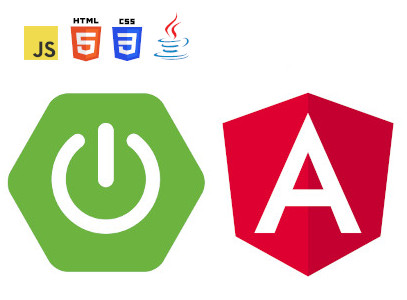
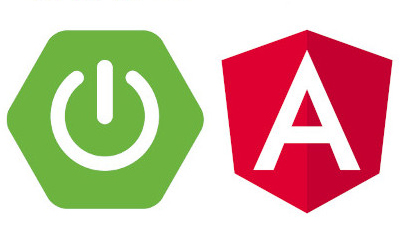
feat: add cedears tracker project
- Also update project thumbnails.

diff --git a/_site/projects/1-cedears-tracker.html b/_site/projects/1-cedears-tracker.html
@@ -1,0 +1,194 @@
+<!DOCTYPE html>
+
+<!--
+  portfolYOU Jekyll theme by Youssef Raafat
+  Free for personal and commercial use under the MIT license
+  https://github.com/YoussefRaafatNasry/portfolYOU
+-->
+
+<html lang="en" class="h-100">
+
+<head>
+
+  
+  
+  
+
+  
+
+  <meta charset="utf-8">
+  <meta http-equiv="X-UA-Compatible" content="IE=edge">
+  <meta name="viewport" content="width=device-width, initial-scale=1">
+
+  <meta property="og:type" content="website">
+  <meta property="og:title" content="CEDEARs Tracker">
+  <meta property="og:description" content="A microservices-based system for tracking financial assets.">
+  <meta property="og:image" content="../assets/img/projects/cedears_tracker/portada.jpg">
+
+  <title>CEDEARs Tracker</title>
+  <meta name="description" content="A microservices-based system for tracking financial assets.">
+
+  <link rel="shortcut icon" type="image/x-icon" href="/assets/favicon.ico">
+
+  <!-- Theme style -->
+  <script src="/assets/js/theme.js"></script>
+
+  <!-- Font Awesome CDN -->
+  <link rel="stylesheet" href="https://use.fontawesome.com/releases/v5.10.0/css/all.css">
+
+  <!-- Bootstrap CSS CDN -->
+  <link rel="stylesheet" href="https://cdn.jsdelivr.net/npm/bootstrap@4.6.0/dist/css/bootstrap.min.css">
+
+  <!-- Animate CSS CDN -->
+  <link rel="stylesheet" href="https://cdnjs.cloudflare.com/ajax/libs/animate.css/3.7.0/animate.css">
+
+  <!-- Custom CSS -->
+  <link rel="stylesheet" href="/assets/css/style.css">
+
+</head>
+
+<body class="h-100 d-flex flex-column">
+
+  <main class="flex-shrink-0 container mt-5">
+    <nav class="navbar navbar-expand-lg navbar-themed">
+
+  <div class="d-flex align-items-center"> <!-- Agregar un contenedor flexible -->
+    <a class="navbar-brand" href="/">
+      <h5><b>Pablo Musaber</b></h5>
+    </a>
+
+    <span id="theme-toggler" class="nav-item" role="button" onclick="toggleTheme()"></span>
+  </div>
+
+  <button class="navbar-toggler" type="button" data-toggle="collapse" data-target="#navbarNavAltMarkup"
+    aria-controls="navbarNavAltMarkup" aria-expanded="false" aria-label="Toggle navigation">
+    <i class="fas fa-1x fa-bars text-themed"></i>
+  </button>
+
+  <div class="collapse navbar-collapse" id="navbarNavAltMarkup">
+    <div class="navbar-nav ml-auto"><a class="nav-item nav-link active" href="/projects/">Projects</a>
+
+      <a class="nav-item nav-link " href="/blog/">Blog</a>
+
+      <a class="nav-item nav-link " href="/about/">About</a>
+
+      <a class="nav-item nav-link " href="https://github.com/PabloMusaber"target="_blank"><i class="fab fa-1x fa-github"></i></a>
+
+      <a class="nav-item nav-link " href="https://www.linkedin.com/in/pablo-musaber/"target="_blank"><i class="fab fa-linkedin-in"></i></a>
+
+      <a class="nav-item nav-link " href="mailto:musaberpablo@gmail.com"target="_blank"><i class="fas fa-envelope"></i></a>
+
+      
+
+    </div>
+  </div>
+
+</nav>
+    <div class="col-lg-10 mx-auto mt-5 markdown-body">
+  <h1>
+    <b>CEDEARs Tracker </b><a href="https://github.com/PabloMusaber/cedears-tracker" style="color: #6c757d"
+    onMouseOver="this.style.color='#333333'" onMouseOut="this.style.color='#6c757d'"
+    target="githubWindow"><i class="fab fa-github"></i></a></h1><p class="post-metadata text-muted">
+  20 December 2024 -
+  <b>less than 1 min read time</b>
+
+  <br>Tags:
+    
+    <a class="text-decoration-none no-underline">
+      <span class="tag badge badge-pill text-primary border border-primary">.NET</span>
+    </a>
+    
+    <a class="text-decoration-none no-underline">
+      <span class="tag badge badge-pill text-primary border border-primary">C#</span>
+    </a>
+    
+    <a class="text-decoration-none no-underline">
+      <span class="tag badge badge-pill text-primary border border-primary">Microservices Architecture</span>
+    </a>
+    
+    <a class="text-decoration-none no-underline">
+      <span class="tag badge badge-pill text-primary border border-primary">RabbitMQ</span>
+    </a>
+    </p>
+
+<p>This project was developed to practice microservices architecture and the migration process from a monolithic system to a microservices-based approach. This system consists of 4 microservices with specific responsibilities and independent databases.</p>
+
+<h5 id="1-instrument-service">1. Instrument Service</h5>
+<ul>
+  <li>Allows the creation of instruments that represent the different financial assets you want to track.</li>
+  <li>Has a database that saves instruments.</li>
+  <li>When an instrument is created, it sends this information to <em>MovementService</em> through the RabbitMQ Message Bus.</li>
+</ul>
+
+<h5 id="2-movement-service">2. Movement Service</h5>
+<ul>
+  <li>Allows the creation of movements (buy/sell) for each instrument.</li>
+  <li>Has a database that saves movements and instruments.</li>
+  <li>At the start, it retrieves all the available instruments in <em>Instrument Service</em>.</li>
+  <li>When a movement is registered, it calculates the average purchase price and sends it to <em>MarketService</em> through the RabbitMQ Message Bus.</li>
+</ul>
+
+<h5 id="3-market-service">3. Market Service</h5>
+<ul>
+  <li>Communicates with the <strong><a href="https://itatppi.github.io/ppi-official-api-docs/api/documentacionRest/">PPI API</a></strong> to get the current price for each instrument.</li>
+  <li>Has a database with the required information to generate the spreadsheet.</li>
+  <li>At the start, it retrieves all the available information in <em>Movement Service</em>.</li>
+  <li>When a movement is registered, receive the updated information for the specific instrument.</li>
+  <li>Sends the necessary information to generate the spreadsheet through the RabbitMQ Message Bus.</li>
+</ul>
+
+<h5 id="4-spreadsheet-service">4. Spreadsheet Service</h5>
+<ul>
+  <li>Sends the request to get the necessary information to generate the spreadsheet through <em>RabbitMQ</em>.</li>
+  <li>Generates the spreadsheet and sends it via <em>Telegram</em>.</li>
+  <li>Does not have any database.</li>
+</ul>
+
+<p><strong>Note:</strong> The project is called CEDEARS Tracker, but it can track any financial assets available through the PPI API.</p>
+
+<p>The <strong>solution architecture</strong> is here:
+<img src="../assets/img/projects/cedears_tracker/solution_diagram.jpeg" alt="diagram" /></p>
+
+<script src="https://cdn.jsdelivr.net/gh/eddymens/markdown-external-link-script@v2.0.0/main.min.js"></script>
+
+
+
+
+</div>
+  </main>
+  <footer class="mt-auto py-3 text-center">
+
+  <small class="text-muted mb-2">
+    Using the <a href="https://jekyllrb.com/" target=”jekyll”>Jekyll</a> theme <a
+      href="https://github.com/YoussefRaafatNasry/portfolYOU" target=”portfolYOU”>portfolYOU</a>&nbsp; - &nbsp;
+    <i class="fas fa-code"></i> <strong>Pablo Musaber</strong>
+  </small>
+
+</footer>
+
+  
+  <!-- GitHub Buttons -->
+<script async defer src="https://buttons.github.io/buttons.js"></script>
+
+<!-- jQuery CDN -->
+<script src="https://ajax.googleapis.com/ajax/libs/jquery/3.3.1/jquery.min.js"></script>
+
+<!-- Popper.js CDN -->
+<script src="https://cdnjs.cloudflare.com/ajax/libs/popper.js/1.14.6/umd/popper.min.js"></script>
+
+<!-- Bootstrap JS CDN -->
+<script src="https://stackpath.bootstrapcdn.com/bootstrap/4.3.1/js/bootstrap.min.js"></script>
+
+<!-- wow.js CDN & Activation -->
+<script src="https://cdnjs.cloudflare.com/ajax/libs/wow/1.1.2/wow.js"></script>
+<script> new WOW().init(); </script>
+
+<!-- Initialize all tooltips -->
+<script>
+$(function () {
+    $('[data-toggle="tooltip"]').tooltip()
+})
+</script>
+</body>
+
+</html>

diff --git a/_site/projects/index.html b/_site/projects/index.html
@@ -93,7 +93,21 @@
   <!-- Local Projects -->
   
   <div class="wow animated fadeIn" data-wow-delay=".15s">
-  <a href="/projects/1-blog-rails" class="project card text-themed"><img id="ruby-on-rails-blog-img" class="card-img-top" src="../assets/img/projects/blog_rails/portada2.jpg" alt="Ruby on Rails Blog"><div class="card-body">
+  <a href="/projects/1-cedears-tracker" class="project card text-themed"><img id="cedears-tracker-img" class="card-img-top" src="../assets/img/projects/cedears_tracker/portada.jpg" alt="CEDEARs Tracker"><div class="card-body">
+      <h5 id="cedears-tracker-name" class="card-title">
+<strong>CEDEARs Tracker</strong>
+      </h5>
+      <p id="cedears-tracker-desc" class="card-text">A microservices-based system for tracking financial assets.</p>
+      <p id="cedears-tracker-tools" class="card-text"><span class="badge badge-pill text-primary border border-primary ml-1">.NET</span><span class="badge badge-pill text-primary border border-primary ml-1">C#</span><span class="badge badge-pill text-primary border border-primary ml-1">Microservices Architecture</span><span class="badge badge-pill text-primary border border-primary ml-1">RabbitMQ</span></p>
+    </div>
+    <div class="card-footer">
+      20 December 2024
+    </div>
+  </a>
+</div>
+
+  <div class="wow animated fadeIn" data-wow-delay=".15s">
+  <a href="/projects/2-blog-rails" class="project card text-themed"><img id="ruby-on-rails-blog-img" class="card-img-top" src="../assets/img/projects/blog_rails/portada.jpg" alt="Ruby on Rails Blog"><div class="card-body">
       <h5 id="ruby-on-rails-blog-name" class="card-title">
 <strong>Ruby on Rails Blog</strong>
       </h5>
@@ -102,20 +116,6 @@
     </div>
     <div class="card-footer">
       13 August 2023
-    </div>
-  </a>
-</div>
-
-  <div class="wow animated fadeIn" data-wow-delay=".15s">
-  <a href="/projects/2-portfolio-web" class="project card text-themed"><img id="web-portfolio-img" class="card-img-top" src="../assets/img/projects/portfolio_web/portada.jpg" alt="Web Portfolio"><div class="card-body">
-      <h5 id="web-portfolio-name" class="card-title">
-<strong>Web Portfolio</strong>
-      </h5>
-      <p id="web-portfolio-desc" class="card-text">Personal website built as part of the Argentina Programa course.</p>
-      <p id="web-portfolio-tools" class="card-text"><span class="badge badge-pill text-primary border border-primary ml-1">Java</span><span class="badge badge-pill text-primary border border-primary ml-1">Spring Boot</span><span class="badge badge-pill text-primary border border-primary ml-1">Angular</span></p>
-    </div>
-    <div class="card-footer">
-      25 July 2022
     </div>
   </a>
 </div>
@@ -144,6 +144,20 @@
     </div>
     <div class="card-footer">
       15 July 2021
+    </div>
+  </a>
+</div>
+
+  <div class="wow animated fadeIn" data-wow-delay=".15s">
+  <a href="/projects/5-portfolio-web" class="project card text-themed"><img id="web-portfolio-img" class="card-img-top" src="../assets/img/projects/portfolio_web/portada.jpg" alt="Web Portfolio"><div class="card-body">
+      <h5 id="web-portfolio-name" class="card-title">
+<strong>Web Portfolio</strong>
+      </h5>
+      <p id="web-portfolio-desc" class="card-text">Personal website built as part of the Argentina Programa course.</p>
+      <p id="web-portfolio-tools" class="card-text"><span class="badge badge-pill text-primary border border-primary ml-1">Java</span><span class="badge badge-pill text-primary border border-primary ml-1">Spring Boot</span><span class="badge badge-pill text-primary border border-primary ml-1">Angular</span></p>
+    </div>
+    <div class="card-footer">
+      25 July 2022
     </div>
   </a>
 </div>

diff --git a/_site/projects/2-blog-rails.html b/_site/projects/2-blog-rails.html
@@ -23,7 +23,7 @@
   <meta property="og:type" content="website">
   <meta property="og:title" content="Ruby on Rails Blog">
   <meta property="og:description" content="A web platform developed with the objective of learning the technology, allowing users to register, comment, and publish articles.">
-  <meta property="og:image" content="../assets/img/projects/blog_rails/portada2.jpg">
+  <meta property="og:image" content="../assets/img/projects/blog_rails/portada.jpg">
 
   <title>Ruby on Rails Blog</title>
   <meta name="description" content="A web platform developed with the objective of learning the technology, allowing users to register, comment, and publish articles.">

diff --git a/_projects/(1) Cedears Tracker.md b/_projects/(1) Cedears Tracker.md
@@ -1,0 +1,40 @@
+---
+name: CEDEARs Tracker
+tools: [.NET, C#, Microservices Architecture, RabbitMQ]
+image: ../assets/img/projects/cedears_tracker/portada.jpg
+date: 2024-12-20
+description: A microservices-based system for tracking financial assets.
+github_repository: https://github.com/PabloMusaber/cedears-tracker
+---
+This project was developed to practice microservices architecture and the migration process from a monolithic system to a microservices-based approach. This system consists of 4 microservices with specific responsibilities and independent databases.
+
+##### 1. Instrument Service
+- Allows the creation of instruments that represent the different financial assets you want to track.
+- Has a database that saves instruments.
+- When an instrument is created, it sends this information to _MovementService_ through the RabbitMQ Message Bus.
+
+##### 2. Movement Service
+- Allows the creation of movements (buy/sell) for each instrument.
+- Has a database that saves movements and instruments.
+- At the start, it retrieves all the available instruments in *Instrument Service*.
+- When a movement is registered, it calculates the average purchase price and sends it to _MarketService_ through the RabbitMQ Message Bus.
+
+##### 3. Market Service
+- Communicates with the **[PPI API](https://itatppi.github.io/ppi-official-api-docs/api/documentacionRest/)** to get the current price for each instrument.
+- Has a database with the required information to generate the spreadsheet.
+- At the start, it retrieves all the available information in *Movement Service*.
+- When a movement is registered, receive the updated information for the specific instrument.
+- Sends the necessary information to generate the spreadsheet through the RabbitMQ Message Bus.
+
+##### 4. Spreadsheet Service
+- Sends the request to get the necessary information to generate the spreadsheet through *RabbitMQ*.
+- Generates the spreadsheet and sends it via _Telegram_.
+- Does not have any database.
+
+**Note:** The project is called CEDEARS Tracker, but it can track any financial assets available through the PPI API.
+
+The **solution architecture** is here:
+![diagram](../assets/img/projects/cedears_tracker/solution_diagram.jpeg)
+
+
+<script src='https://cdn.jsdelivr.net/gh/eddymens/markdown-external-link-script@v2.0.0/main.min.js'></script>

diff --git a/_projects/(2) Blog Rails.md b/_projects/(2) Blog Rails.md
@@ -1,7 +1,7 @@
 ---
 name: Ruby on Rails Blog
 tools: [Ruby, Rails, HTML, CSS]
-image: ../assets/img/projects/blog_rails/portada2.jpg
+image: ../assets/img/projects/blog_rails/portada.jpg
 date: 2023-08-13
 description: A web platform developed with the objective of learning the technology, allowing users to register, comment, and publish articles.
 github_repository: https://github.com/PabloMusaber/blog-rails
